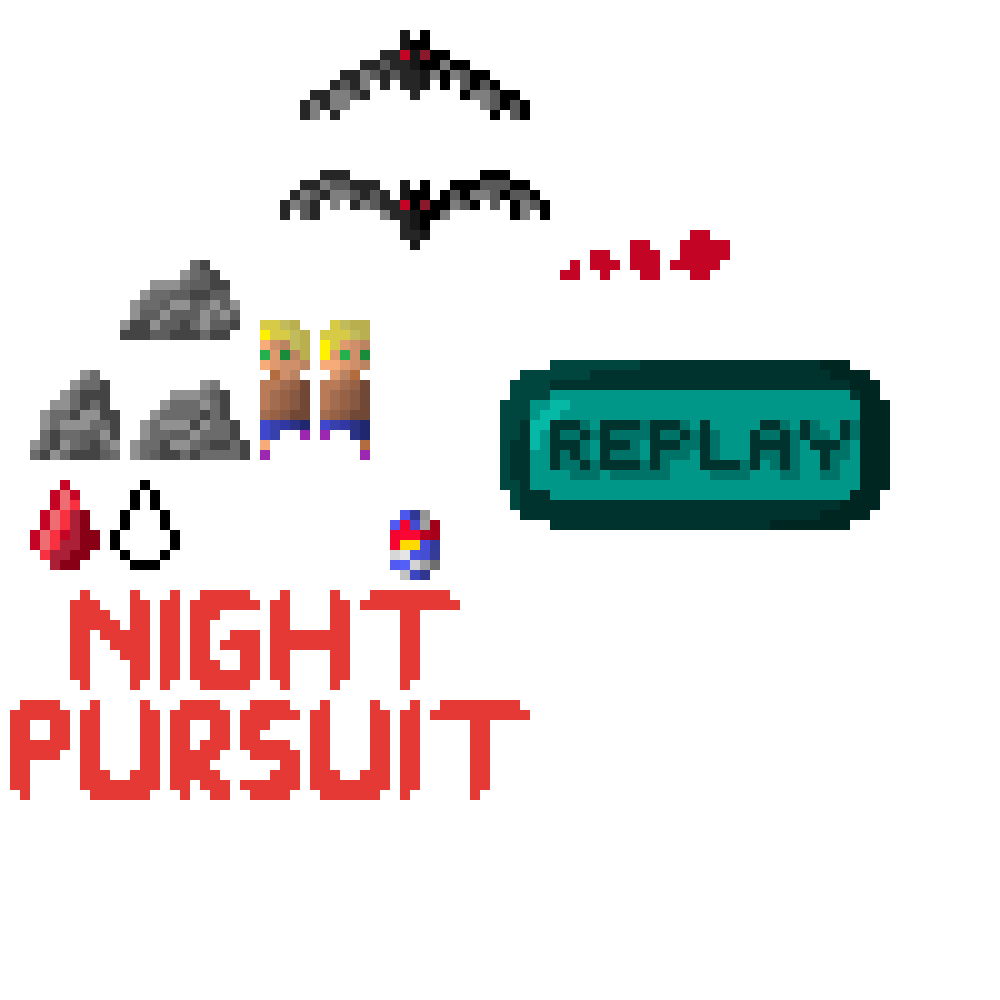
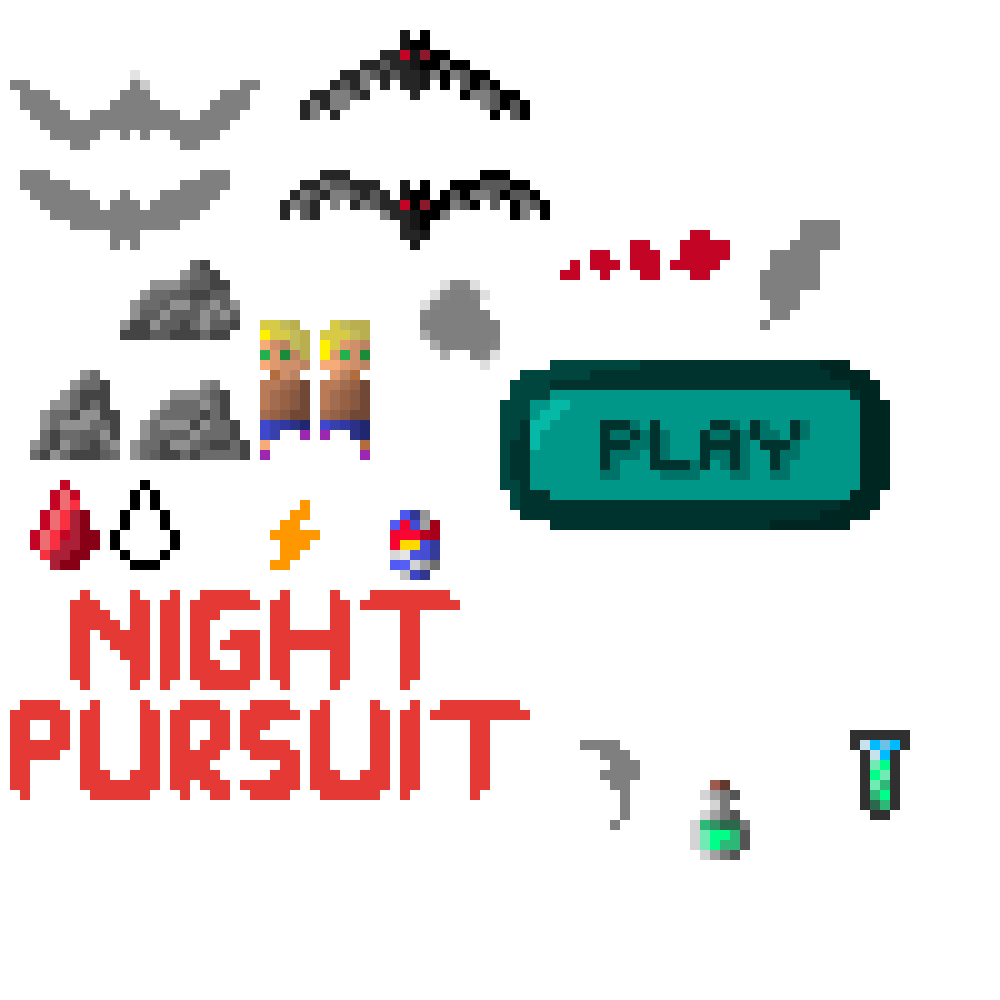
pretty good version i think

diff --git a/scripts.js b/scripts.js
@@ -1,7 +1,7 @@
 //scripts.js
 //Main script for the page
 
-
+import { menuShow } from "./modules/menu.js";
 
 let canvas = document.getElementById('canvas')
 
@@ -12,18 +12,23 @@ import {Blood} from "./modules/blood.js";
 import {Rock} from "./modules/rock.js";
 import {Player} from "./modules/player.js";
 import {Vampire} from "./modules/vampire.js";
+import {Score} from "./modules/score.js";
 
 
 
 // def var
 
+let isPlaying = false
+
 let gameFrame = 1
-var gameSpeed = 15
-var baseSpeed = 15
+var gameSpeed = 10
+var baseSpeed = 10
 let player = new Player
 let vampire = new Vampire
 let background = new Background(0)
 let background1 = new Background(1000)
+let score = new Score()
+let scoreNumber = 0
 var bloodArray = []
 var rockArray = []
 var energyArray = []
@@ -52,7 +57,7 @@ var randomRockSpawn = Math.ceil(Math.random()*100)
 
 function handleRock(){
     if (gameFrame % randomRockSpawn == 0){
-        randomRockSpawn = Math.ceil(Math.random()*100)
+        randomRockSpawn = Math.ceil(50-(Math.random()*100)/2)
         rockArray.push(new Rock()) 
     }
     for (let i = 0; i<rockArray.length; i++){
@@ -64,11 +69,9 @@ function handleRock(){
     }
 }
 
-var randomEnergySpawn = Math.ceil(Math.random()*100)*6
 
 function handleEnergy(){
-    if (gameFrame % randomEnergySpawn == 0){
-        randomEnergySpawn = Math.ceil(Math.random()*100)*6
+    if (gameFrame % 100 == 0){
         energyArray.push(new Energy()) 
     }
     for (let i = 0; i<energyArray.length; i++){
@@ -105,7 +108,7 @@ function handlePlayer(){
         }
     }
     if (rockCollision){
-        gameSpeed =3
+        gameSpeed =baseSpeed/3
     }
     
     var energyCollision = false
@@ -131,7 +134,7 @@ function handlePlayer(){
         }
     }
     if (energyCollision){
-        gameSpeed =25
+        gameSpeed =baseSpeed*2
     }
 
     if (!energyCollision && !rockCollision){
@@ -140,37 +143,72 @@ function handlePlayer(){
 }
 
 function handleVampire(){
-    vampire.update(playerPreviousPos[0],gameSpeed)
+    vampire.update(playerPreviousPos[0],gameSpeed,baseSpeed)
     vampire.draw()
 }
 //animation loop
 
-//menuShow(true)
+function handleScore(){
+    score.draw(scoreNumber.toString())
+}
 
-let gameloop = setInterval(function(){
-    //clear 
-    ctx.clearRect(0, 0, canvas.width, canvas.height)
-
-    // handle and draw all elements
-    handleBackground()
-    handleBlood()
-    handleRock()
-    handleEnergy()
-    handlePlayer()
-    handleVampire()
-    // add gameframe
-    gameFrame ++
-
-    // end condition
-    if (player.x > vampire.x + vampire.width ||
-        player.x + player.width < vampire.x ||
-        player.y > vampire.y + vampire.height ||
-        player.y + player.height < vampire.y){
-    }else {
-        clearInterval(gameloop);
-        //menuShow(false)
+menuShow(false)
+window.addEventListener("keydown", function(event) {
+    if (event.code == "Space" && !isPlaying){
+        isPlaying = true
+        let gameloop = setInterval(function(){
+            //clear 
+            ctx.clearRect(0, 0, canvas.width, canvas.height)
+        
+            // handle and draw all elements
+        
+            handleBackground()
+            handleBlood()
+            handleRock()
+            handleEnergy()
+            handlePlayer()
+            handleVampire()
+            handleScore()
+        
+            // add gameframe
+            gameFrame ++
+            if (gameFrame % 60 == 0){
+                baseSpeed = baseSpeed + 1
+            }
+            console.log(baseSpeed)
+            scoreNumber = Math.ceil(gameFrame/10)
+            // end condition
+            if (player.x > vampire.x + vampire.width ||
+                player.x + player.width < vampire.x ||
+                player.y > vampire.y + vampire.height ||
+                player.y + player.height < vampire.y){
+            }else {
+                isPlaying =false
+                clearInterval(gameloop);
+                menuShow(scoreNumber)
+                gameSpeed = 10
+                baseSpeed = 10
+                player = new Player
+                vampire = new Vampire
+                background = new Background(0)
+                background1 = new Background(1000)
+                score = new Score()
+                scoreNumber = 0
+                bloodArray = []
+                rockArray = []
+                energyArray = []
+                effectCouter = 0
+                playerPreviousPos = []
+                gameFrame = 0
+            }
+        },32) 
     }
-},32) 
+});
+
+
+// GAMELOOP
+
+
 
 
 

diff --git a/modules/score.js b/modules/score.js
@@ -1,0 +1,53 @@
+import {c, ctx} from "./canvas.js";
+
+//Environment.js
+class Score {
+    constructor(){
+        this.x = 10
+        this.y = 10;
+        this.spriteSheet = new Image()
+        this.spriteSheet.src = "pixil-frame-0.png"
+        this.frameX = 430
+        this.frameY = 870
+        this.frameW = 190
+        this.frameH = 30
+    }
+    draw(score){
+        c.getContext('2d').drawImage(this.spriteSheet,this.frameX,this.frameY,this.frameW,this.frameH,this.x, this.y, this.frameW,this.frameH);
+        for (let i = 0; i < score.length;i++){
+            switch (score[i]){
+                case "1":
+                    c.getContext('2d').drawImage(this.spriteSheet,430,910,30,30,this.x+(i*40), this.y+50, 30,30);
+                    break
+                case "2":
+                    c.getContext('2d').drawImage(this.spriteSheet,470,910,30,30,this.x+(i*40), this.y+50, 30,30);
+                    break
+                case "3":
+                    c.getContext('2d').drawImage(this.spriteSheet,510,910,30,30,this.x+(i*40), this.y+50, 30,30);
+                    break
+                case "4":
+                    c.getContext('2d').drawImage(this.spriteSheet,550,910,30,30,this.x+(i*40), this.y+50, 30,30);
+                    break
+                case "5":
+                    c.getContext('2d').drawImage(this.spriteSheet,590,910,30,30,this.x+(i*40), this.y+50, 30,30);
+                    break
+                case "6":
+                    c.getContext('2d').drawImage(this.spriteSheet,630,910,30,30,this.x+(i*40), this.y+50, 30,30);
+                    break
+                case "7":
+                    c.getContext('2d').drawImage(this.spriteSheet,670,910,30,30,this.x+(i*40), this.y+50, 30,30);
+                    break
+                case "8":
+                    c.getContext('2d').drawImage(this.spriteSheet,710,910,30,30,this.x+(i*40), this.y+50, 30,30);
+                    break
+                case "9":
+                    c.getContext('2d').drawImage(this.spriteSheet,750,910,30,30,this.x+(i*40), this.y+50, 30,30);
+                    break
+                case "0":
+                    c.getContext('2d').drawImage(this.spriteSheet,790,910,30,30,this.x+(i*40), this.y+50, 30,30);
+                    break
+            }
+        }
+    }
+}
+export {Score};

diff --git a/modules/menu.js b/modules/menu.js
@@ -1,0 +1,25 @@
+import {Score} from "./score.js";
+import {c, ctx} from "./canvas.js";
+let score = new Score
+let spriteSheet = new Image()
+spriteSheet.src = "pixil-frame-0.png"
+let background = new Image()
+background.src = "image.jpg"
+export function menuShow(scoreNumber){
+    ctx.clearRect(0, 0, 1000,1000)
+    background.onload = function() {
+        c.getContext('2d').drawImage(background, 0, 0, 1000, 1010);
+        c.getContext('2d').drawImage(spriteSheet,500,360,390,300,500-(390/2),450, 390,300);
+        c.getContext('2d').drawImage(spriteSheet,10,590,520,210,500-(480/2),100, 520,210);
+        score.draw(scoreNumber.toString())
+    }   
+    c.getContext('2d').drawImage(background, 0, 0, 1000, 1010); 
+    spriteSheet.onload = function() {
+        c.getContext('2d').drawImage(spriteSheet,500,360,390,300,500-(390/2),450, 390,300);
+        c.getContext('2d').drawImage(spriteSheet,10,590,520,210,500-(480/2),100, 520,210);
+        score.draw(scoreNumber.toString())
+    }
+    c.getContext('2d').drawImage(spriteSheet,500,360,390,300,500-(390/2),450, 390,300);
+    c.getContext('2d').drawImage(spriteSheet,10,590,520,210,500-(480/2),100, 520,210);
+    score.draw(scoreNumber.toString())
+}

diff --git a/modules/vampire.js b/modules/vampire.js
@@ -9,7 +9,7 @@ class Vampire {
         this.count = 0
         this.width = 270
         this.height = 80
-        this.y = 100
+        this.y = 200
         this.x = 500 - this.width/2
         this.spriteSheet = new Image()
         this.spriteSheet.src = "pixil-frame-0.png"
@@ -17,9 +17,11 @@ class Vampire {
         this.frameY = 170
         this.animationSpeed = 10
     }
-    update(x,speed){
+    update(x,speed,baseSpeed){
         this.x = x
-        this.y += Math.ceil((15 - speed)/1.5)
+        if (this.y >= -20 || baseSpeed >= speed){
+        this.y += Math.ceil((baseSpeed - speed)/1.5)
+    }
     }
 
     draw(){
@@ -37,6 +39,11 @@ class Vampire {
                 this.height = 80
             }
             this.count = 0
+        }
+        if (this.frameX == 280) {
+            c.getContext('2d').drawImage(this.spriteSheet,20,170,210,80,this.x-50, this.y+80, 210,80);
+        }else {
+            c.getContext('2d').drawImage(this.spriteSheet,10,80,250,70,this.x-50, this.y+80, 250,70);
         }
         c.getContext('2d').drawImage(this.spriteSheet,this.frameX,this.frameY,this.width,this.height,this.x-this.width/2.3, this.y, this.width,this.height);
 

diff --git a/modules/player.js b/modules/player.js
@@ -27,7 +27,6 @@ window.addEventListener("keyup", function(event) {
             break
     }
 });
-/*                                                      */
 
 
 class Player {
@@ -49,10 +48,10 @@ class Player {
         this.dx = 0
 
         if (rightPressed){
-            this.dx = 15
+            this.dx = 20
         }
         if (leftPressed){
-            this.dx = -15
+            this.dx = -20
         }
         if (this.x + this.dx <= 950 - this.width/2 && this.x + this.dx >= 50 ){
             this.x = this.x + this.dx
@@ -63,6 +62,8 @@ class Player {
 
     draw(){
         ctx.fillStyle = "black";
+        c.getContext('2d').drawImage(this.spriteSheet,760,220,80,100,this.x+30, this.y, 80,100);
+
         c.getContext('2d').drawImage(this.spriteSheet,this.frameX,this.frameY,50,140,this.x, this.y, 50,140);
         if (this.count == this.animationSpeed){
             if (this.frameX == 260){

diff --git a/modules/energy.js b/modules/energy.js
@@ -13,13 +13,14 @@ class Energy {
         this.y = 1000;
         this.spriteSheet = new Image()
         this.spriteSheet.src = "pixil-frame-0.png"
-        this.frameX = 390
-        this.frameY = 510
-        this.frameW = 50
-        this.frameH = 70
+        this.frameX = 690
+        this.frameY = 780
+        this.frameW = 60
+        this.frameH = 80
     }
     draw(speed){
         this.y -= speed
+        c.getContext('2d').drawImage(this.spriteSheet,580,740,60,90,this.x+20, this.y, 60,90);
         c.getContext('2d').drawImage(this.spriteSheet,this.frameX,this.frameY,this.frameW,this.frameH,this.x, this.y, this.frameW,this.frameH);
     }
 }

diff --git a/modules/rock.js b/modules/rock.js
@@ -35,6 +35,7 @@ class Rock {
     }
     draw(speed){
         this.y -= speed
+        c.getContext('2d').drawImage(this.spriteSheet,420,280,80,80,this.x+ this.frameW/2, this.y-10, 80,80);
         c.getContext('2d').drawImage(this.spriteSheet,this.frameX,this.frameY,this.frameW,this.frameH,this.x, this.y, this.frameW,this.frameH);
         //ctx.fillStyle = 'darkgreen'
         //ctx.fillRect(this.x, this.y, 50, 50);
